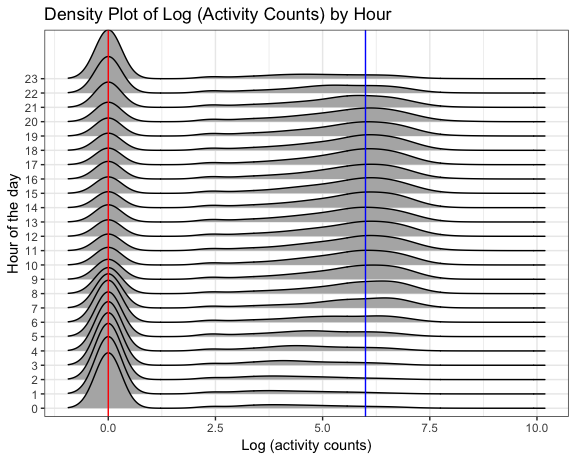
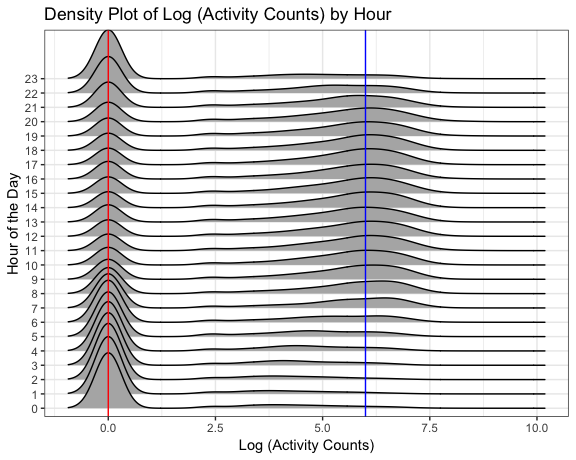
Delete words and change plots

Changed region(s): [[0.4062, 0.9435, 0.6562, 1.0], [0.0, 0.3652, 0.0312, 0.6087]]

diff --git a/p8105_mtp_jl5297.md b/p8105_mtp_jl5297.md
@@ -6,9 +6,7 @@ Jun Lu
 Overview
 --------
 
-This document conducts analyses focused on understanding patterns of physical activity of a participant over 47 weeks. The data for this project was collected on a 63 year-old male with BMI 25, who was admitted to the Advanced Cardiac Care Center of Columbia University Medical Center and diagnosed with congestive heart failure. He wore an accelerometerdevice that continuously recorded physical activity for several months. Our data came from this accelerometerdevice.
-
-All analyses in this document are based on data in “p8105\_mtp\_data.csv”.
+This document conducts analyses focused on understanding patterns of physical activity of a participant over 47 weeks. The data for this project was collected on a 63 year-old male with BMI 25, who diagnosed with congestive heart failure. He wore an accelerometerdevice that continuously recorded physical activity for several months.
 
 Data cleaning
 -------------
@@ -30,7 +28,7 @@ str(activity_df)
     ##  $ minute         : int  1 2 3 4 5 6 7 8 9 10 ...
     ##  $ activity_counts: num  1 1 1 1 1 1 1 1 1 1 ...
 
-We load the data from “p8105\_mtp\_data.csv” and use `gather` to go from wide to long formats. Two variables(`minute` and `day`) are transformed into integer and factor as necessary. And we arrange it by week, day and minute. There are 473760 observations and 4 variables.
+We load the data from “p8105\_mtp\_data.csv” and use `gather` to go from wide to long formats. Two variables(`minute` and `day`) are transformed into integer and factor. There are 473760 observations and 4 variables.
 
 -   `week`: Week of observation
 -   `day`: Day of the week
@@ -55,7 +53,7 @@ activity_df %>%
 
 <img src="p8105_mtp_jl5297_files/figure-markdown_github/unnamed-chunk-2-1.png" width="80%" style="display: block; margin: auto;" />
 
--   From the density plot, wen can see the distribution of `activity_counts` is extremely skewed where some points are much larger than the bulk of the data. The range of activity counts is (1, 10417) and the mean is 240.34. When this participant has no activity, activity counts equal to 1
+We can see the distribution of `activity_counts` is extremely skewed where some points are much larger than the bulk of the data. The range of activity counts is 1, 10417. When this participant has no activity, activity counts equal to 1.
 
 ### Find days with no activity
 
@@ -89,12 +87,12 @@ activity_df %>%
     ## 17    20 Saturday            1440
     ## 18    32 Monday              1440
 
--   We find that there are 18 days that activity counts shows no activity. Those days are mainly in week 3, 4 and 12.
+We find that there are 18 days that activity counts shows no activity. Those days are mainly in week 3, 4 and 12.
 
 Total activity analysis
 -----------------------
 
-### 1. Total activity trend analysis
+### Total activity trend analysis
 
 ``` r
 activity_df %>% 
@@ -111,9 +109,9 @@ activity_df %>%
     )
 ```
 
-<img src="p8105_mtp_jl5297_files/figure-markdown_github/total_activity_trend-1.png" width="80%" style="display: block; margin: auto;" /> We aggregate accross minutes of each week to create a total activity variable and then make a scatterplot of total activity over weeks. While there has been large variability, the total activity has an upward trend over weeks. We can infer that this participant became more active over time.
+<img src="p8105_mtp_jl5297_files/figure-markdown_github/total_activity_trend-1.png" width="80%" style="display: block; margin: auto;" />
 
-### 2. The effect of day of the week on total activity
+We aggregate accross minutes of each week to create a total activity variable and then make a scatterplot of total activity over weeks. While there has been large variability, the total activity has an upward trend over weeks. We can infer that this participant became more active over time. \#\#\# The effect of day of the week on total activity
 
 ``` r
 day_total_acitivity = 
@@ -151,11 +149,11 @@ day_total_boxplot + day_total_difference + plot_layout(ncol = 1)
 
 <img src="p8105_mtp_jl5297_files/figure-markdown_github/day_effect-1.png" width="80%" style="display: block; margin: auto;" />
 
--   We aggregate accross minutes of each day to create a day total activity variable.
--   In isolation: We make boxplots of total activity of different days of the week to examine the possibility that day of the week affects activity.
--   In addition to the effect of time: In order to remove the effect of the time, we calculate difference values between day total activity and the mean of day total activity of the week(day total activity - the mean of day total activity of the week). And then we make boxplots of these difference values of of different days of the week in another panel.
+-   Aggregate accross minutes of each day to create a day total activity variable.
+-   Make boxplots of total activity of different days of the week.
+-   In order to remove the effect of the time, we calculate difference values between day total activity and the mean of day total activity of the week. And then we make boxplots of these difference values of of different days of the week.
 
-As ranges of boxplots overlap and their medians are only slightly different(both in isolation and in addition to the effect of time), there is no enough evidence that that day of the week affects total activity.
+As IQR of boxplots overlap and their medians are not significant different(both in two plots), there is no enough evidence that that day of the week affects total activity.
 
 Distribution of activity counts by hour
 ---------------------------------------
@@ -170,14 +168,12 @@ activity_df %>%
     geom_vline(xintercept = 6, color = "blue") +
     labs(
         title = "Density Plot of Log (Activity Counts) by Hour",
-        x = "Log (activity counts)",
-        y = "Hour of the day"
+        x = "Log (Activity Counts)",
+        y = "Hour of the Day"
     ) 
 ```
 
-<img src="p8105_mtp_jl5297_files/figure-markdown_github/unnamed-chunk-4-1.png" width="80%" style="display: block; margin: auto;" />
-
-Because the original distribution is quite skewed, we make a density plot of log(activity counts) in the full dataset by hour. From the plot we can see this participant tends to have activity from 7 a. m. to 10 p. m.
+<img src="p8105_mtp_jl5297_files/figure-markdown_github/unnamed-chunk-4-1.png" width="80%" style="display: block; margin: auto;" /> We make a density plot of log(activity counts) by hour. We can see this participant tends to have activity from 7 a. m. to 10 p. m.
 
 24-hour activity profiles analysis
 ----------------------------------
@@ -186,25 +182,27 @@ Because the original distribution is quite skewed, we make a density plot of log
 activity_df %>% 
     mutate(period = week %/% 16,
            period = factor(period, levels = c(0, 1, 2), labels = c("1-15 weeks", "16-31 weeks", "32-47 weeks")),
-           time = minute %/% 20 * 20 / 60) %>% 
+           time = minute %/% 10 * 10 / 60) %>% 
     group_by(period, week, day, time) %>% 
     summarize(activity_counts = sum(activity_counts)) %>% 
-    ggplot(aes(x = time, y = activity_counts, color = week)) +
-    viridis::scale_color_viridis() +
-    geom_line(aes(group = week), size = 0.1) +
-    facet_grid(period ~ day) +
-    geom_smooth(size = 0.5, color = "red") +
+    ggplot(aes(x = time, y = activity_counts, color = period)) +
+    geom_line(aes(group = week), size = 0.1, alpha = 0.25) +
+    facet_grid(. ~ day) +
+    geom_smooth(size = 1, aes(group = period, color = period)) +
     scale_x_continuous(breaks = seq(0, 24, by = 6)) +
+    ylim(0, 40000) +
     labs(
         title = "24-Hour Activity Profiles for Each Day",
         x = "Hour of the Day",
         y = "Activity Counts/ 20 Minutes"
-    )
+    ) +
+    theme(legend.position = "right")
 ```
 
-<img src="p8105_mtp_jl5297_files/figure-markdown_github/24-hour-1.png" width="80%" style="display: block; margin: auto;" /> We divide weeks into 3 periods(1-15, 16-31, 32-47 weeks) to show the effect of the time. And we aggregate data into 20-minute epochs to make plots more clear. Then we make a polt which shows 24-hour activity profiles for each day. In this plot, we use `facet_grid` to form a matrix of panels defined by period and day of the week. Smooth estimates of mean activity profiles of each panel are emphasized as red bold curves.
+<img src="p8105_mtp_jl5297_files/figure-markdown_github/24-hour-1.png" width="80%" style="display: block; margin: auto;" />
 
-From this plot, we find that:
+We divide weeks into 3 periods and aggregate data into 20-minute epochs. Then we make a plot which shows 24-hour activity profiles for each day in panels defined by period and day of the week. Smooth estimates of each period are emphasized as bold curves.
 
--   On Sunday, this participant tends to have high activity around 9 a. m. and 16 p. m.
--   On Friday, this participant tends to have high activity around 8 p. m.
+-   This participant became more active over periods, especially on Friday, Saturday and Sunday.
+-   This participant tended to have high activity around 9 a. m. and 16 p. m. on Sunday.
+-   This participant tended to have high activity around 8 p. m. on Friday.
